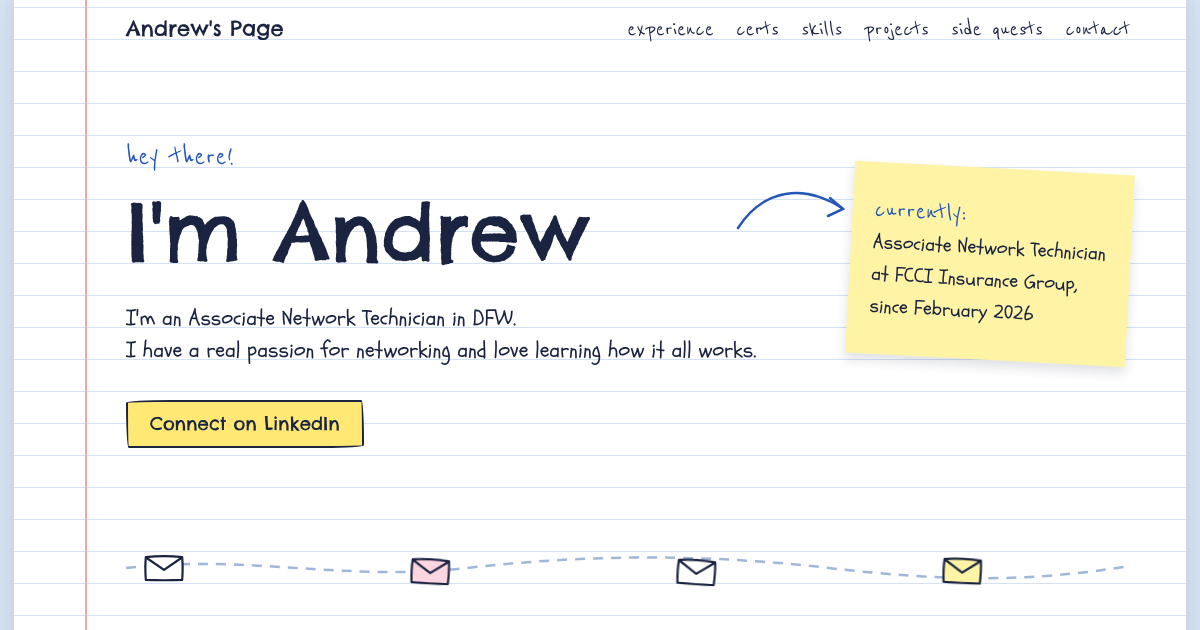
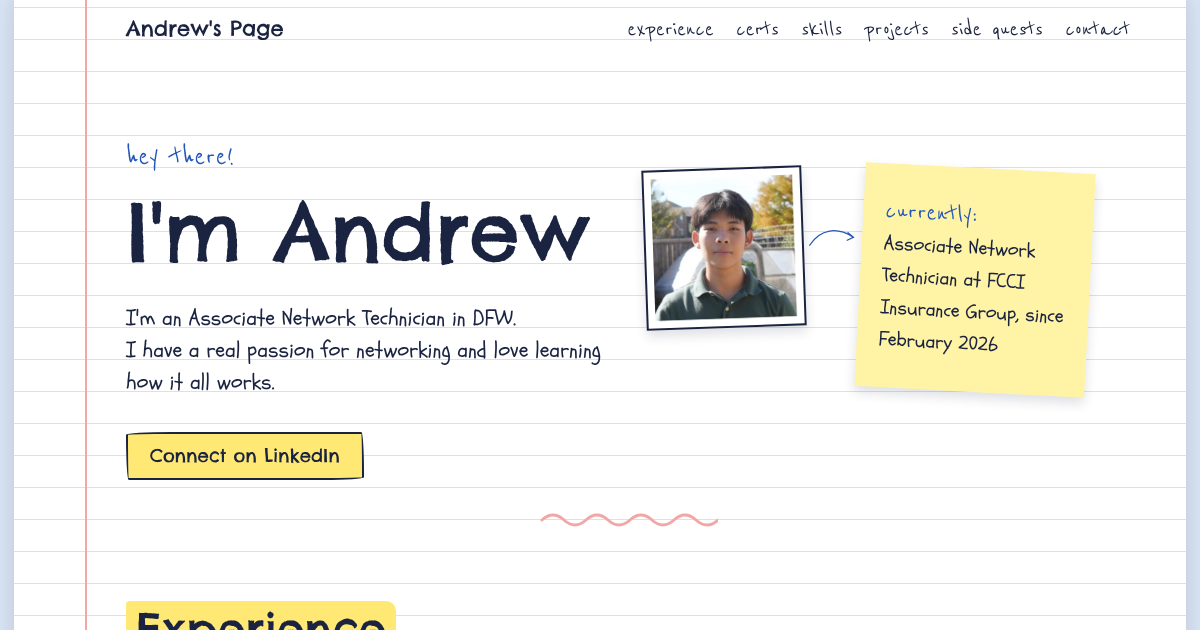
Add files via upload

diff --git a/index.html b/index.html
@@ -40,6 +40,9 @@ a{color:#2457B8}a:hover{color:#1A2340}
 .tape{position:absolute;top:-14px;left:50%;width:110px;height:30px;margin-left:-55px;background:rgba(190,215,245,0.75);transform:rotate(-3deg)}
 .sticky{padding:32px 22px;box-shadow:0 6px 12px rgba(26,35,64,0.14);min-width:0}
 .sec{padding:32px 0 32px}
+.me{box-sizing:border-box;width:160px;height:160px;padding:7px;background:#FFFFFF;border:2px solid #1A2340;box-shadow:0 6px 12px rgba(26,35,64,0.14);flex:0 0 auto}
+.me img{display:block;width:100%;height:100%;object-fit:cover;pointer-events:none;user-select:none;-webkit-user-drag:none}
+
 .cert{display:block;text-decoration:none;color:#1A2340;transition:box-shadow .15s}
 .cert:hover{box-shadow:0 10px 18px rgba(26,35,64,0.22)}
 .cert .badge{font-family:'Reenie Beanie',cursive;font-size:24px;color:#2457B8;text-decoration:underline;text-decoration-color:#9FB7DA;text-underline-offset:4px}
@@ -83,6 +86,9 @@ a:focus-visible{outline:3px dashed #2457B8;outline-offset:4px}
 .tilt{transform:none !important}
 .topnav{display:none !important}
 .sitenav{width:100%;gap:0 18px !important}
+.me-group{flex-wrap:wrap;gap:32px !important;width:100%}
+.me-note{width:100% !important}
+.h1{white-space:normal !important}
 .edu-ico{height:64px}
 .polaroid .cap{display:flex;align-items:center;justify-content:center;padding:0 4px;font-size:21px;line-height:22px}
 .h1{font-size:44px !important;line-height:64px !important;top:13px !important}
@@ -114,17 +120,19 @@ body.lb-open{overflow:hidden}
 <main>
 <!-- ============ HERO ============ -->
 <div id="top" style="padding: 96px 0 32px">
-<div style="display: flex; flex-wrap: wrap; align-items: flex-start; gap: 32px 56px">
+<div style="display: flex; flex-wrap: wrap; align-items: flex-start; gap: 32px 40px">
 <div style="flex: 999 1 460px; min-width: 0">
 <p class="rb on" style="font-size: 32px; line-height: 32px; top: 5px; color: #2457B8">hey there!</p>
-<h1 class="cm on h1" style="font-size: 80px; line-height: 96px; top: 16px">I'm Andrew</h1>
+<h1 class="cm on h1" style="font-size: 80px; line-height: 96px; top: 16px; white-space: nowrap">I'm Andrew</h1>
 <p class="on" style="margin-top: 32px; max-width: 30em; font-size: 22px; line-height: 32px; top: 6px">I'm an Associate Network Technician in DFW.&nbsp;<br>I have a real passion for networking and love learning how it all works.</p>
 <div class="pills" style="margin-top: 32px">
 <a class="pill" href="https://www.linkedin.com/in/andrewduongx/" style="background: #FFE873">Connect on LinkedIn</a>
 </div>
 </div>
-<div style="flex: 0 1 280px; position: relative; margin-top: 32px">
-<svg class="topnav" viewBox="0 0 120 70" width="120" height="70" fill="none" stroke="#2457B8" stroke-width="2.5" stroke-linecap="round" aria-hidden="true" style="position: absolute; left: -116px; top: 10px"><path d="M4 50 C 30 10, 70 6, 108 30"></path><path d="M96 20 L 109 31 L 94 38"></path></svg>
+<div class="me-group" style="flex: 0 0 auto; display: flex; align-items: flex-start; gap: 0 56px; margin-top: 32px; position: relative">
+<div class="me tilt" style="transform: rotate(-2deg)"><img src="images/me.jpg" alt="Photo of Andrew Duong" draggable="false"></div>
+<svg class="topnav" viewBox="0 0 120 70" width="50" height="30" fill="none" stroke="#2457B8" stroke-width="3" stroke-linecap="round" aria-hidden="true" style="position: absolute; left: 164px; top: 56px"><path d="M4 50 C 30 10, 70 6, 108 30"></path><path d="M96 20 L 109 31 L 94 38"></path></svg>
+<div class="me-note" style="width: 230px">
 <div class="sticky tilt" style="background: #FFF3A6; transform: rotate(3deg)">
 <p class="rb" style="font-size: 30px; line-height: 32px; color: #2457B8">currently:</p>
 <p>Associate Network Technician at FCCI Insurance Group, since February 2026</p>
